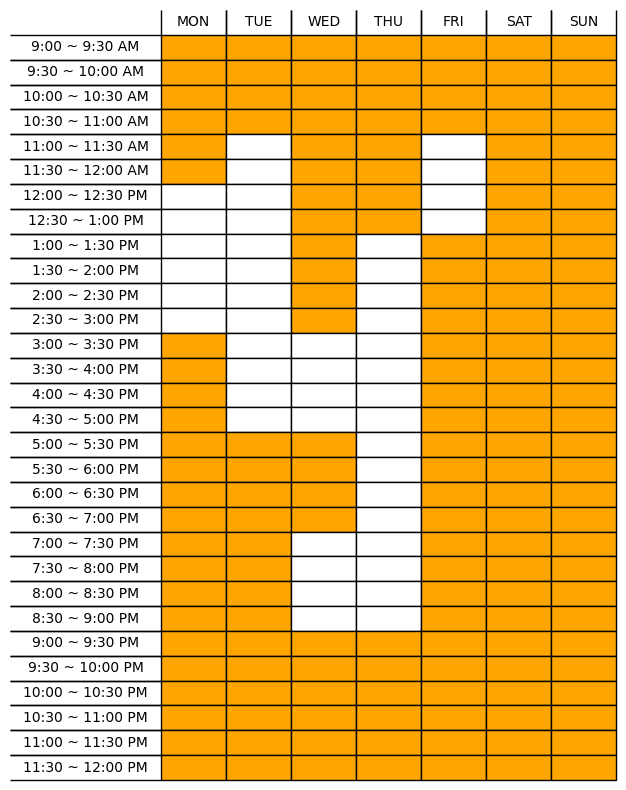
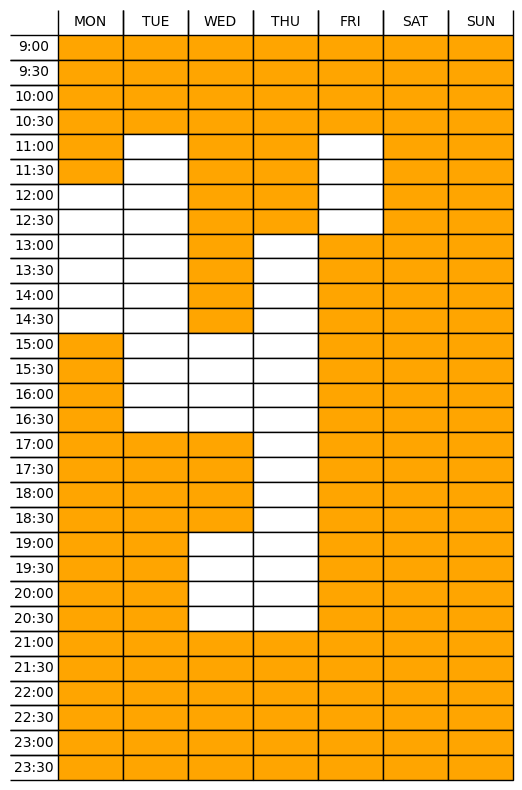
edit/flask cors 설정

diff --git a/img_final_result.py b/img_final_result.py
@@ -5,7 +5,6 @@ matplotlib.use('Agg')
 import matplotlib.pyplot as plt
 
 
-
 def get_time_segment():
     index = []
     period = "AM"
@@ -22,11 +21,16 @@ def get_time_segment():
                 index.append(f"{start_time}:30 ~ {start_time%12+1}:00 {period}")
     return index
 
+timeSegment = ["9:00", "9:30", "10:00", "10:30", "11:00", "11:30", "12:00", "12:30", "13:00", "13:30", "14:00",
+               "14:30", "15:00", "15:30", "16:00", "16:30", "17:00", "17:30", "18:00", "18:30", "19:00", "19:30", "20:00",
+               "20:30",  "21:00", "21:30", "22:00", "22:30", "23:00", "23:30"]
+
 
 class ResultTimetable:
     def __init__(self):
         self.columns = ['MON','TUE','WED','THU','FRI','SAT','SUN']
-        self.timeSegment = get_time_segment()
+        # self.timeSegment = get_time_segment()
+        self.timeSegment = timeSegment
         
     def data_to_img(self, resultImage):
         #when importing json data use pd_object = pd.read_json(whatever)

diff --git a/app.py b/app.py
@@ -2,12 +2,12 @@ from flask import Flask, render_template, jsonify, request
 from config import AWS_ACCESS_KEY, AWS_SECRET_KEY, REGION_NAME, BUCKET_NAME
 from img_table_processing import one_table_processing
 from img_final_result import result_timetable
-# from flask_cors import CORS
+from flask_cors import CORS
 import boto3
 
 
 app = Flask(__name__)
-# CORS(app)
+CORS(app)
 
 s3 = boto3.client(
     "s3",
